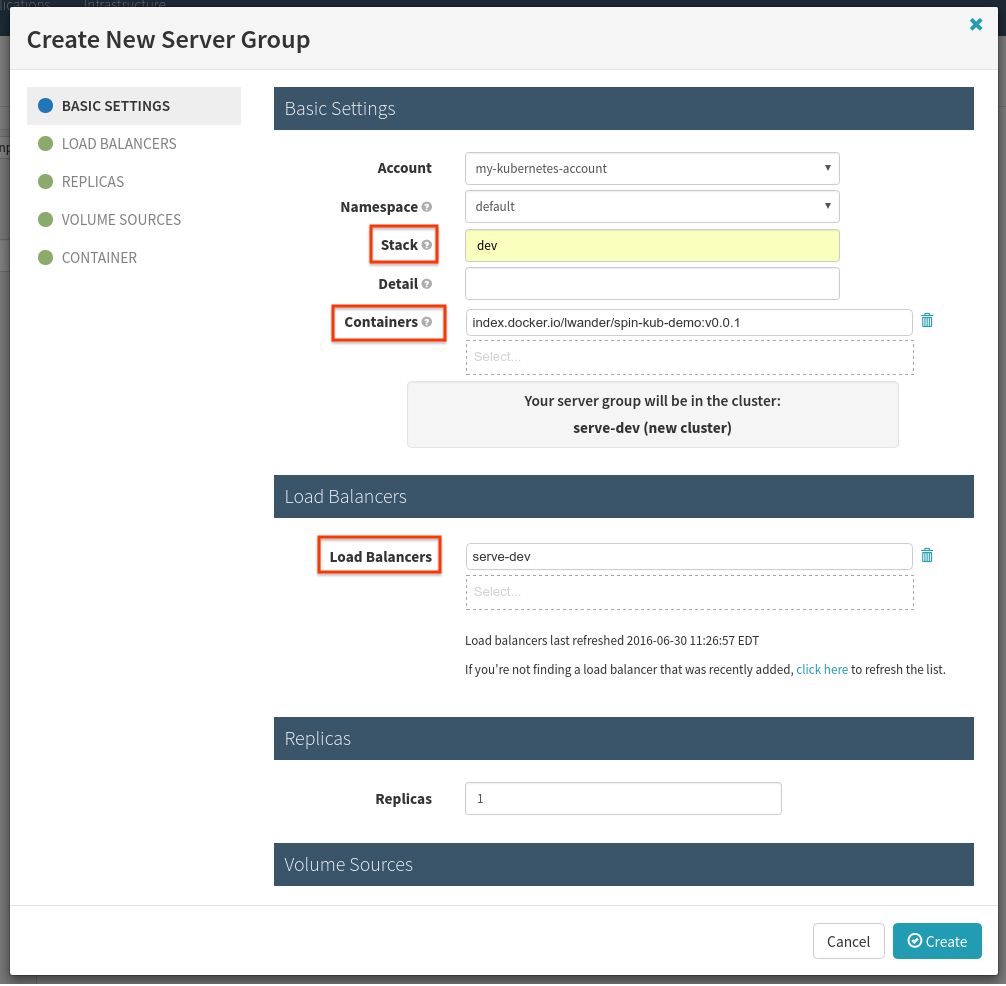
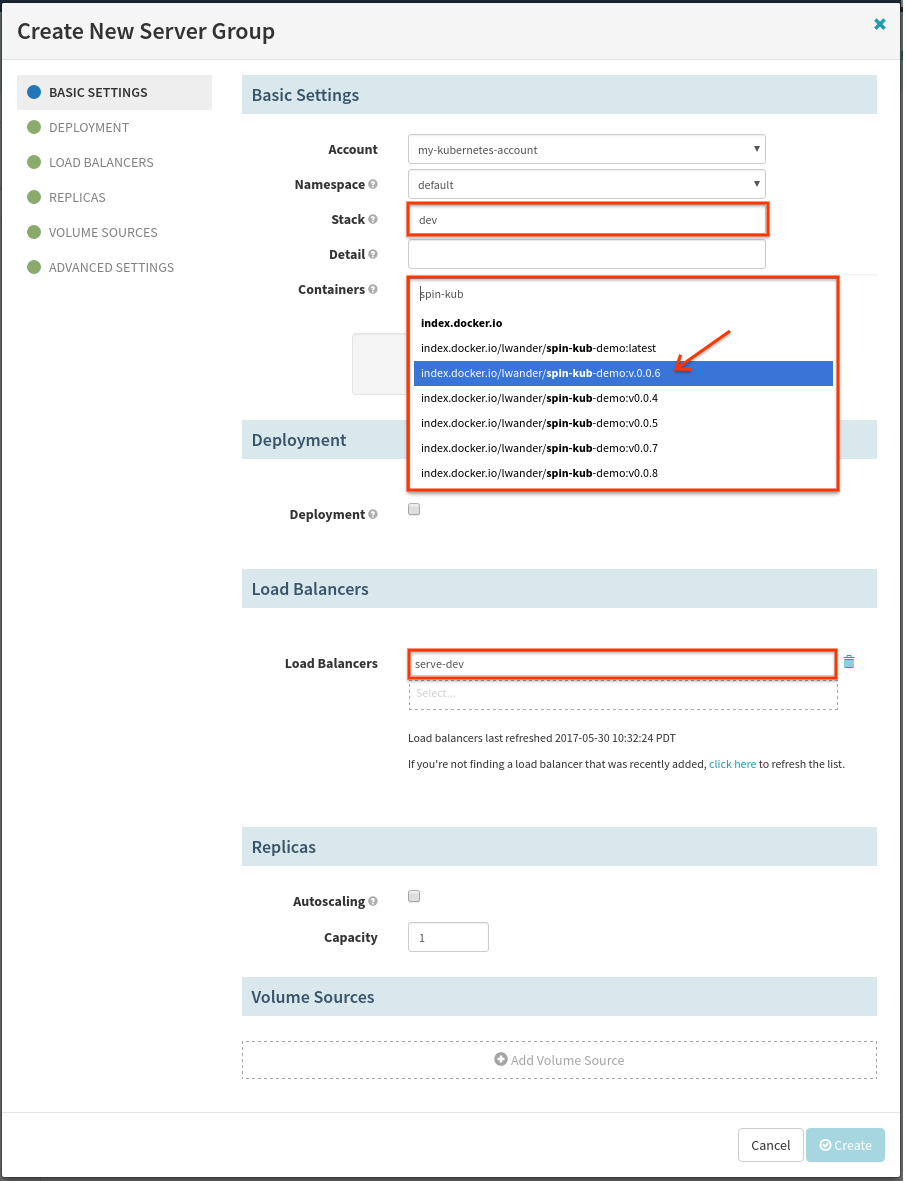
fix(codelab): Update k8s codelab images & links

diff --git a/guides/tutorials/codelabs/kubernetes-source-to-prod/index.md b/guides/tutorials/codelabs/kubernetes-source-to-prod/index.md
@@ -27,10 +27,10 @@ The workflow generally looks like this:
 
 We need a few things to get this working. 
 
-  1. [A Github repo containing the code we want to deploy](http://www.spinnaker.io/v1.0/docs/kubernetes-source-to-prod#section-configuring-github).
-  2. [A Dockerhub repo configured to build on changes to the above repo](http://www.spinnaker.io/v1.0/docs/kubernetes-source-to-prod#section-configuring-dockerhub).
-  3. [A running Kubernetes cluster](http://www.spinnaker.io/v1.0/docs/kubernetes-source-to-prod#section-configuring-kubernetes).
-  4. [A running Spinnaker deployment configured with the contents of steps 2 and 3](http://www.spinnaker.io/v1.0/docs/kubernetes-source-to-prod#section-configuring-kubernetes).
+  1. [A Github repo containing the code we want to deploy](#configuring-github).
+  2. [A Dockerhub repo configured to build on changes to the above repo](#configuring-dockerhub).
+  3. [A running Kubernetes cluster](#configuring-kubernetes).
+  4. [A running Spinnaker deployment configured with the contents of steps 2 and 3](#configuring-kubernetes).
 
 ## Configuring Github
 
@@ -50,17 +50,24 @@ Follow one of the guides [here](http://kubernetes.io/docs/getting-started-guides
 
 ## Configuring Spinnaker
 
-We will be deploying Spinnaker to the same Kubernetes cluster it will be managing. To do so, follow the steps in [this guide](https://github.com/spinnaker/spinnaker/tree/master/experimental/kubernetes/simple), being sure to use [this section](https://github.com/spinnaker/spinnaker/tree/master/experimental/kubernetes/simple/#anything-else-except-for-ecr) to configure your registry.
+We will be deploying Spinnaker to the same Kubernetes cluster it will be managing. To do so, follow the installation [guide](/setup/install), being sure to enable & create a Kubernetes account, as well as a Docker Registry account with credentials and repositories pointing at those created above.
 
 # 1. Create a Spinnaker Application
 
 Spinnaker applications are groups of resources managed by the underlying cloud provider, and are delineated by the naming convention `<app name>-`. Since Spinnaker and a few other Kubernetes-essential pods are already running in your cluster, your _Applications_ tab will look something like this:
 
-![Applications data and spin were created by Spinnaker, the rest were created by Kubernetes.](applications.png)
+
+
+{% include figure 
+     image_path="./applications.png"
+     caption="Applications data and spin were created by Spinnaker, the rest were created by Kubernetes."
+%}
 
 Under the _Actions_ dropdown select _Create Application_ and fill out the following dialog:
 
-![If you've followed the Source to Prod tutorial for the VM based providers, you'll remember that you needed to select "Consider only cloud provider health when executing tasks". Since Kubernetes is the sole health provider by definition, selecting this here is redundant, and unnecessary.](appfill.png)
+If you've followed the Source to Prod tutorial for the VM based providers, you'll remember that you needed to select "Consider only cloud provider health when executing tasks". Since Kubernetes is the sole health provider by definition, selecting this here is redundant, and unnecessary.
+
+![](appfill.png)
 
 You'll notice that you were dropped in this _Clusters_ tab for your newly created application. In Spinnaker's terminology a _Cluster_ is a collection of _Server Groups_ all running different versions of the same artifact (Docker Image). Furthermore, _Server Groups_ are Kubernetes [Replica Sets](http://kubernetes.io/docs/user-guide/replicasets/), with support for [Deployments](http://kubernetes.io/docs/user-guide/deployments/) incoming.
 
@@ -72,13 +79,17 @@ We will be creating a pair of Spinnaker _Load Balancers_ (Kubernetes [Services](
 
 First we will create the _dev_ _Load Balancer_:
 
-![The fields highlighted in red are the ones we need to fill out. "Port" is the port the load balancer will be listening out, and "Target Port" is the port our server is listening on. "Stack" exists for naming purposes.](devlb.png)
+The fields highlighted in red are the ones we need to fill out. "Port" is the port the load balancer will be listening out, and "Target Port" is the port our server is listening on. "Stack" exists for naming purposes.
+
+![](devlb.png)
 
 Once the _dev_ _Load Balancer_ has been created, we will create an external-facing load balancer. Select _Create Load Balancer_ again:
 
-![Fill out the fields in red again, changing "Load Balancer IP" to a static IP reserved using your underlying cloudprovider. If you do not have a static IP reserved, you may leave "Load Balancer IP" blank and an ephemeral IP will be assigned.](prodlb.png)
+Fill out the fields in red again, changing "Load Balancer IP" to a static IP reserved using your underlying cloudprovider. If you do not have a static IP reserved, you may leave "Load Balancer IP" blank and an ephemeral IP will be assigned.
 
-> **If your cloud provider (GKE, AWS, etc...) doesn't support Type: LoadBalancer** 
+![](prodlb.png)
+
+> :warning: **If your cloud provider (GKE, AWS, etc...) doesn't support Type: LoadBalancer** 
 >
 > .... you may need to change _Type_ to _Node Port_. Read more [here](http://kubernetes.io/docs/user-guide/services/#publishing-services---service-types).
 
@@ -90,13 +101,17 @@ At this point your _Load Balancers_ tab should look like this:
 
 Next we will create a _Server Group_ as a sanity check to make sure we have set up everything correctly so far. Before doing this, ensure you have at least 1 tag pushed to your Docker registry with the code you want to deploy. Now on the _Clusters_ screen, select _Create Server Group/Job_, choose _Server Group_ from the drop down and hit _Next_ to see the following dialog:
 
-![Make sure that you select the `-dev` load balancer that we selected earlier.](firstSG1.png)
+Make sure that you select the `-dev` load balancer that we selected earlier.
+
+![](firstSG1.png)
 
 Scroll down to the newly created _Container_ subsection, and edit the following fields:
 
-![Under the "Probes" subsection, select "Enable Readiness Probe". This will prevent pipelines and deploys from continuing until the containers pass the supplied check and report themselves as "Healthy".](firstSG2.png)
+Under the "Probes" subsection, select "Enable Readiness Probe". This will prevent pipelines and deploys from continuing until the containers pass the supplied check and report themselves as "Healthy".
 
-Once the create task completes, open a terminal and type <code>$ kubectl proxy</code>, and now navigate in your browser to http://localhost:8001/api/v1/proxy/namespaces/default/services/serve-dev:80/ to see if your application is serving traffic correctly.
+![](firstSG2.png)
+
+Once the create task completes, open a terminal and type <code>$ kubectl proxy</code>, and now navigate in your browser to [serve-dev](http://localhost:8001/api/v1/proxy/namespaces/default/services/serve-dev:80/) to see if your application is serving traffic correctly.
 
 > **kubectl proxy**
 >
@@ -106,15 +121,17 @@ Once you're satisfied, don't close the proxy or browser tab just yet as we'll us
 
 # 4. Git to _dev_ Pipeline
 
-Now let's automate the process of creating server groups associated with the _dev_ loadbalancer. Navigate to the _Pipelines_ tab, select _Configure_ > _Create New..._ and then fill out the resulting dialog as follows:
+Now let's automate the process of creating server groups associated with the _dev_ loadbalancer. Navigate to the _Pipelines_ tab, select _Create_ and then fill out the resulting dialog as follows:
 
 ![](createdevdeploy.png)
 
 In the resulting page, select _Add Trigger_, and fill the form out as follows:
 
-![The "Organization" and "Image" will likely be different, as you have set up your own Docker repository.
+![](dockertrigger.png)
 
-The "Tag" can be a regex matching a tag name patterns for valid triggers. Leaving it blank serves as "trigger on any new tag".](dockertrigger.png)
+The "Organization" and "Image" will likely be different, as you have set up your own Docker repository.
+
+The "Tag" can be a regex matching a tag name patterns for valid triggers. Leaving it blank serves as "trigger on any new tag".
 
 Now select _Add Stage_ just below _Configuration_, and fill out the form as follows:
 
@@ -122,9 +139,11 @@ Now select _Add Stage_ just below _Configuration_, and fill out the form as foll
 
 Next, in the _Server Groups_ box select _Add Server Group_, where you will use the already deployed server group as a template like so:
 
-![Any server group in this app can be used as a template, and vastly simplifies configuration 
+Any server group in this app can be used as a template, and vastly simplifies configuration 
 (since most configuration is copied over). This includes replica sets deployed with "kubectl 
-create -f $FILE".](templateselection.png)
+create -f $FILE".
+
+![](templateselection.png)
 
 In the resulting dialog, we only need to make one change down in the _Container_ subsection. Select the image that will come from the Docker trigger as shown below:
 
@@ -132,9 +151,11 @@ In the resulting dialog, we only need to make one change down in the _Container_
 
 Lastly, we want to add a stage to destroy the previous server group in this _dev_ cluster. Select _Add Stage_, and fill out the form as follows:
 
-![Make sure to select "default" as the namespace, and "toggle for list of clusters" to make cluster selection easier. "Target" needs to be "Previous Server Group", so whatever was previously deployed is deleted after our newly deployed server group is "Healthy".](destroysg.png)
+Make sure to select "default" as the namespace, and "toggle for list of clusters" to make cluster selection easier. "Target" needs to be "Previous Server Group", so whatever was previously deployed is deleted after our newly deployed server group is "Healthy".
 
-#5. Verification Pipeline
+![](destroysg.png)
+
+# 5. Verification Pipeline
 
 Back on the _Pipelines_ dialog, create a new pipeline as before, but call it "Manual Judgement". On the first screen, add a Pipeline trigger as shown below:
 
@@ -154,9 +175,11 @@ Create a new pipeline titled "Deploy to Prod", and configure a pipeline trigger 
 
 Now we need to find the deployed image in _dev_ that we previously verified. Add a new stage and configure it as follows:
 
-![Select the "default" namespace, the "serve-dev" cluster using "Toggle for list of clusters", and make sure to select "Newest" as the "Server Group Selection". 
+Select the "default" namespace, the "serve-dev" cluster using "Toggle for list of clusters", and make sure to select "Newest" as the "Server Group Selection". 
 
-"Image Name Pattern" can be used when multiple different images are deployed in a single Kubernetes Pod. Since we only have a single deployed container we can safely use ".*" as the pattern.](fimage.png)
+"Image Name Pattern" can be used when multiple different images are deployed in a single Kubernetes Pod. Since we only have a single deployed container we can safely use `".*"` as the pattern.
+
+![](fimage.png)
 
 Now, to deploy that resolved image, add a new stage and configure it as follows:
 
@@ -172,7 +195,9 @@ This time we need to make three changes to the template. First, change the "stac
 
 Next in the load balancers section:
 
-![We want to attach this server group to the "prod" load balancer, so make sure to remove the "dev" load balancer with the trash-can icon, and select the "serve-prod" load balancer in its place.](prodlbse.png)
+We want to attach this server group to the "prod" load balancer, so make sure to remove the "dev" load balancer with the trash-can icon, and select the "serve-prod" load balancer in its place.
+
+![](prodlbse.png)
 
 Lastly in the container section:
 
@@ -180,7 +205,9 @@ Lastly in the container section:
 
 Now to prevent all prior versions of this app in production from serving traffic once the deploy finishes, we will add a "Disable Cluster" stage like so:
 
-![You will need to manualy enter "serve-prod" as the cluster name since it doesn't exist yet.](disablecluster.png)
+You will need to manualy enter "serve-prod" as the cluster name since it doesn't exist yet.
+
+![](disablecluster.png)
 
 Save the pipeline, and we are ready to go!
 
@@ -188,14 +215,22 @@ Save the pipeline, and we are ready to go!
 
 Push a new branch to your repo, and wait for the pipeline to run.
 
-<code>NEW_VERSION=v1.0.0
- git checkout -b $NEW_VERSION
- git push origin $NEW_VERSION</code>
+```bash
+NEW_VERSION=v1.0.0
+git checkout -b $NEW_VERSION
+git push origin $NEW_VERSION
+```
 
-Once the Manual Judgement stage is hit, open http://localhost:8001/api/v1/proxy/namespaces/default/services/serve-dev:80/ to "verify" your deployment, and hit _continue_ once you are ready to promote to _prod_.
+Once the Manual Judgement stage is hit, open [serve-dev](http://localhost:8001/api/v1/proxy/namespaces/default/services/serve-dev:80/) to "verify" your deployment, and hit _continue_ once you are ready to promote to _prod_.
 
-![Selecting "stop" will cause the deployment to fail, and the next pipeline won't trigger.](manjudge2.png)
+Selecting "stop" will cause the deployment to fail, and the next pipeline won't trigger.
 
-![Notice that the "Find Image" phase automatically finds the tag that we triggered the first pipeline, as it was the one we verified earlier.](trigfind.png)
+![](manjudge2.png)
 
-![To verify, check the public facing cluster's service's endpoint circled above.](linktocluster.png)
+Notice that the "Find Image" phase automatically finds the tag that we triggered the first pipeline, as it was the one we verified earlier.
+
+![](trigfind.png)
+
+To verify, check the public facing cluster's service's endpoint circled above.
+
+![](linktocluster.png)
